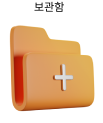
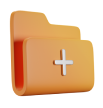
fix: 자녀 일기상세조회 페이지에서 글 작성시 부모 글 작성 페이지로 가는 오류  (#S09P22C207-103)

diff --git a/client/lib/screens/question_page/question_page.dart b/client/lib/screens/question_page/question_page.dart
@@ -228,8 +228,8 @@ class _QuestionPageState extends State<QuestionPage> {
             padding: EdgeInsets.zero),
         child: Image.asset(
           'assets/image/question/answer.png',
-          width: 140.0,
-          height: 160.0,
+          width: 100.0,
+          height: 100.0,
           fit: BoxFit.cover,
         ),
       ),
@@ -251,8 +251,8 @@ class _QuestionPageState extends State<QuestionPage> {
             padding: EdgeInsets.zero),
         child: Image.asset(
           'assets/image/question/folder.png',
-          width: 140.0,
-          height: 160.0,
+          width: 100.0,
+          height: 100.0,
           fit: BoxFit.cover,
         ),
       ),
@@ -549,8 +549,8 @@ class _ParentQuestionPageState extends State<ParentQuestionPage> {
             padding: EdgeInsets.zero),
         child: Image.asset(
           'assets/image/question/answer.png',
-          width: 140.0,
-          height: 160.0,
+          width: 100.0,
+          height: 100.0,
           fit: BoxFit.cover,
         ),
       ),
@@ -572,8 +572,8 @@ class _ParentQuestionPageState extends State<ParentQuestionPage> {
             padding: EdgeInsets.zero),
         child: Image.asset(
           'assets/image/question/folder.png',
-          width: 140.0,
-          height: 160.0,
+          width: 100.0,
+          height: 100.0,
           fit: BoxFit.cover,
         ),
       ),
@@ -992,46 +992,28 @@ class _QeustionAnswerPageState extends State<QeustionAnswerPage> {
     }
   }
 
+  //위젯 빌드
   @override
   Widget build(BuildContext context) {
     return Scaffold(
       appBar: MyHeader(
-        text: '질문 답하기(자녀)',
-        bgColor: Color(0xFF6E2FD5),
-        elementColor: Colors.white,
+        text: '질문 답하기',
       ),
       body: Column(
         children: [
           SizedBox(
             height: 15,
           ),
-          //////////////////////////
-          Padding(
-            padding: EdgeInsets.only(left: 0.0), // 왼쪽 패딩만 설정
-            child: Container(
-              padding: EdgeInsets.all(10.0), // 내부 패딩
-              decoration: BoxDecoration(
-                color: Colors.deepPurple[100], // 연보라색 배경
-                borderRadius: BorderRadius.circular(10.0), // 둥근 테두리
-              ),
-              child: Text(
-                "질문 답하기",
-                style: TextStyle(
-                  color: Colors.purple, // 보라색 글씨
-                  fontSize: 16.0, // 글씨 크기
-                ),
-              ),
-            ),
-          ),
-          ///////////////////
-          ///
+          
+
+
 
           SizedBox(
             height: 15,
           ),
 
           Image.asset(
-            'assets/image/c_face.png',
+            'assets/image/question/answer.png',
             width: 100.0,
             height: 100.0,
             fit: BoxFit.cover,

diff --git a/client/lib/screens/diary_page/diary_page.dart b/client/lib/screens/diary_page/diary_page.dart
@@ -273,7 +273,7 @@ class _ChildDiaryDetailPageState extends State<ChildDiaryDetailPage> {
                             Navigator.push(
                               context,
                               MaterialPageRoute(
-                                builder: (context) => ParentQeustionAnswerPage(
+                                builder: (context) => QeustionAnswerPage(
                                   questionText: data["content"],
                                   questionId: data["id"],
                                 ),
